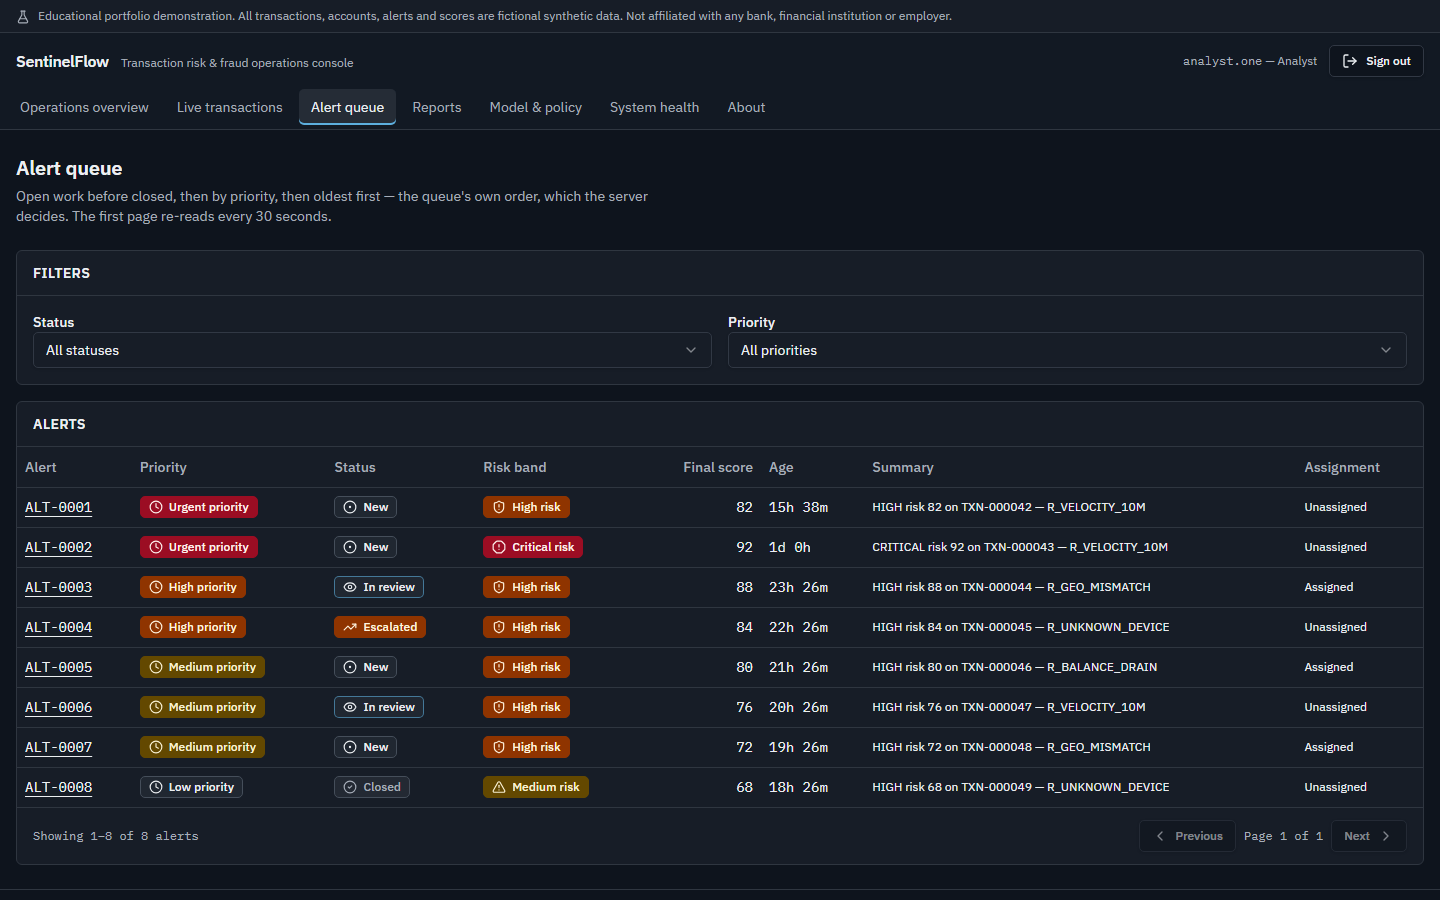
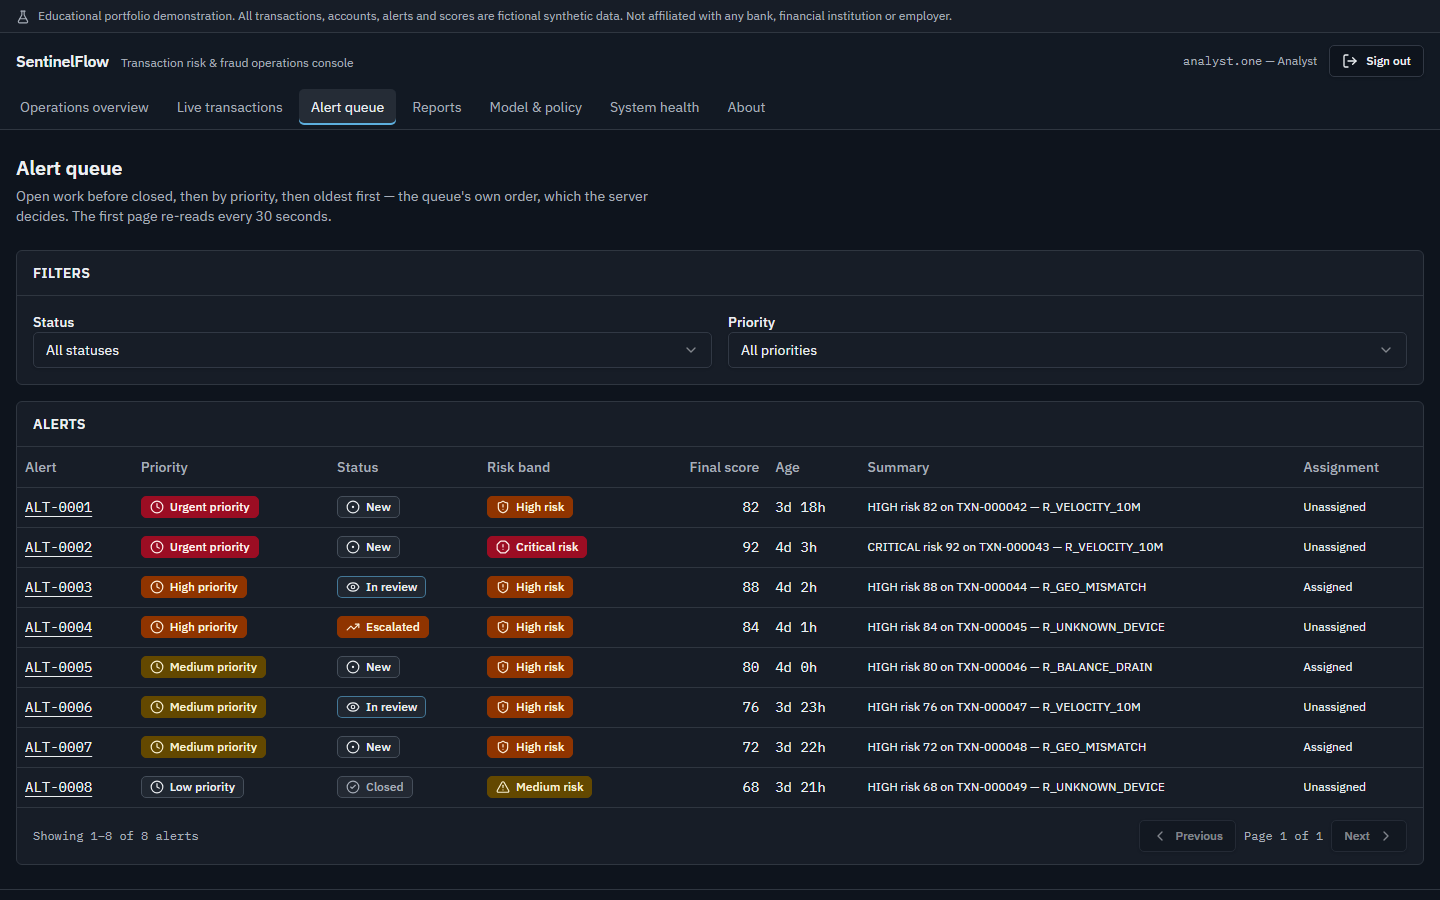
docs: show the three screens the README described and did not show
Phase 9's gate asks for a demo walkthrough and screenshots. Two existed - the
overview and the alert queue - while the investigation workspace, reports and
system health were described in prose on the front page and never shown. A
reader had to take the most interesting screen in the project on trust.

The capture spec gains three entries and the README gains the images, each with
a sentence saying what the screen is for rather than a caption repeating its
title. All five come from the same production bundle the end-to-end suite
exercises, so they cannot drift from the build, and every figure in them is
synthetic - served by the suite's stub in the contract's own shapes.

Two of them are worth publishing precisely because of what they admit, and the
README now points at both: the investigation screen says it cannot assign an
alert to a person rather than drawing a control that would not work, and the
health screen says where the pipeline figures actually live. A screenshot that
shows a limitation being stated is better evidence of judgement than one that
hides it.

The list in the spec is the README's rather than the router's, and the comment
says so: a screen the front page describes and does not show is the gap this
closes, and a screen nobody writes about does not need an image somebody has to
keep current.

Captured by `CAPTURE_SCREENSHOTS=1 bunx playwright test screenshots
--project=desktop`, 5 passed, after `bun run build`.

diff --git a/apps/web/tests/e2e/screenshots.spec.ts b/apps/web/tests/e2e/screenshots.spec.ts
@@ -1,4 +1,4 @@
-import { expect, test } from "./fixtures";
+import { ALERT_ID, ALERT_REFERENCE, expect, test } from "./fixtures";
 
 /**
  * Captures the screenshots the README uses.
@@ -17,9 +17,23 @@ import { expect, test } from "./fixtures";
  * writing files is not a test and does not belong in a check that gates a merge.
  */
 
+/**
+ * One entry per screen the README shows.
+ *
+ * The list is the README's, not the router's: a screen the front page describes
+ * and does not show is the gap this covers, and a screen nobody writes about
+ * does not need an image that has to be kept current.
+ */
 const SHOTS = [
   { path: "/", name: "overview", heading: /operations overview/i },
   { path: "/alerts", name: "alert-queue", heading: /alert queue/i },
+  {
+    path: `/alerts/${ALERT_ID}`,
+    name: "investigation",
+    heading: new RegExp(`alert ${ALERT_REFERENCE}`, "i"),
+  },
+  { path: "/reports", name: "reports", heading: /^reports$/i },
+  { path: "/health", name: "system-health", heading: /system health/i },
 ] as const;
 
 test.describe("README screenshots", () => {

diff --git a/README.md b/README.md
@@ -25,13 +25,39 @@ analyst works to a defensible verdict.
 
 ## The console
 
-![The SentinelFlow operations overview, showing throughput, risk-band distribution, alert counts and pipeline health](docs/frontend/screenshots/overview.png)
+**The overview** — what an analyst sees at the start of a shift: what is in the queue, and what the
+risk looks like.
+
+![The SentinelFlow operations overview, showing risk-band distribution, alert counts and pipeline health](docs/frontend/screenshots/overview.png)
+
+**The alert queue** — dense, filterable, and keyboard-operable, because an analyst is in it all day.
 
 ![The SentinelFlow alert queue, a dense filterable table of synthetic alerts](docs/frontend/screenshots/alert-queue.png)
 
-Both images are generated from the production bundle by
+**The investigation workspace** — one alert, the rule and model scores that produced it, the reason
+codes behind each, the transaction underneath, and the moves this operator may actually make.
+
+![The SentinelFlow investigation workspace for a single alert, showing rule, model and final scores, reason codes, the transaction, and the case actions available](docs/frontend/screenshots/investigation.png)
+
+**Reports** — a half-open window counted rather than sampled, with every key present including the
+zeroes, and the same window downloadable as a file.
+
+![The SentinelFlow reports screen, counting alerts over a window by risk band and by status, with a CSV export](docs/frontend/screenshots/reports.png)
+
+**System health** — each component asked when the page loads, and an honest account of the numbers
+this screen deliberately does not carry.
+
+![The SentinelFlow system health screen, showing each component's state and explaining which pipeline figures live in Prometheus instead](docs/frontend/screenshots/system-health.png)
+
+All five are generated from the production bundle by
 [`apps/web/tests/e2e/screenshots.spec.ts`](apps/web/tests/e2e/screenshots.spec.ts), so they cannot
-drift from the build. Every alert and score in them is synthetic.
+drift from the build. **Every alert, score and figure in them is synthetic**, served by the
+end-to-end suite's stub in the contract's own shapes.
+
+Two things in these images are worth noticing because they are deliberate. The investigation screen
+**says it cannot assign an alert to a person** rather than offering a control that would not work,
+and the health screen **says where the pipeline figures actually live** rather than copying a number
+onto a page with nothing to do about it.
 
 ## Why this project exists
 
